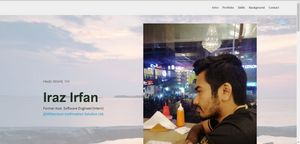
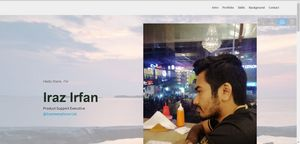
work title, company update

Changed region(s): [[0.18, 0.7222, 0.36, 0.8056], [0.9, 0.1111, 0.96, 0.1944], [0.18, 0.5556, 0.24, 0.5833]]

diff --git a/index.html b/index.html
@@ -73,9 +73,9 @@ j=d.createElement(s),dl=l!='dataLayer'?'&l='+l:'';j.async=true;j.src=
     <div class="container">
         <div class="media-container-row">
             <div class="media-content px-3 align-self-center mbr-white py-2">
-                <h1 class="mbr-text testimonial-text mbr-fonts-style display-7">Hello World, I'm</h1>
+                <h1 class="mbr-text testimonial-text mbr-fonts-style display-7">Hello there, I'm</h1>
                 <p class="mbr-author-name pt-4 mb-2 mbr-fonts-style display-1">Iraz Irfan</p>
-                <p class="mbr-author-desc mbr-fonts-style display-7">Former Asst. Software Engineer(Intern)<br><a href="https://mislbd.com" target="_blank">@Millennium Inofrmation Solution Ltd.</a></p>
+                <p class="mbr-author-desc mbr-fonts-style display-7">Product Support Executive<br><a href="https://grameenphone.com" target="_blank">@Grameenphone Ltd.</a></p>
             </div>
 
             <div class="mbr-figure pl-lg-5" style="width: 130%;">
@@ -234,7 +234,7 @@ j=d.createElement(s),dl=l!='dataLayer'?'&l='+l:'';j.async=true;j.src=
         <div class="row justify-content-center">
             <div class="media-container-column col-lg-8" data-form-type="formoid">
                 <!---Formbuilder Form--->
[2 lines of base64/hex data omitted]
                     <div class="row">
                         <div hidden="hidden" data-form-alert="" class="alert alert-success col-12">Thanks for filling out the form!</div>
                         <div hidden="hidden" data-form-alert-danger="" class="alert alert-danger col-12">

diff --git a/assets/mobirise/css/mbr-additional.css b/assets/mobirise/css/mbr-additional.css
@@ -1102,7 +1102,7 @@ section.lazy-placeholder:after {
   color: #232;
 }
 .cid-qyucOJY58V .mbr-author-desc {
-  color: #232;
+  color: #232323;
 }
 .cid-qyucOJY58V .testimonial-text SPAN {
   color: #c1c1c1;
